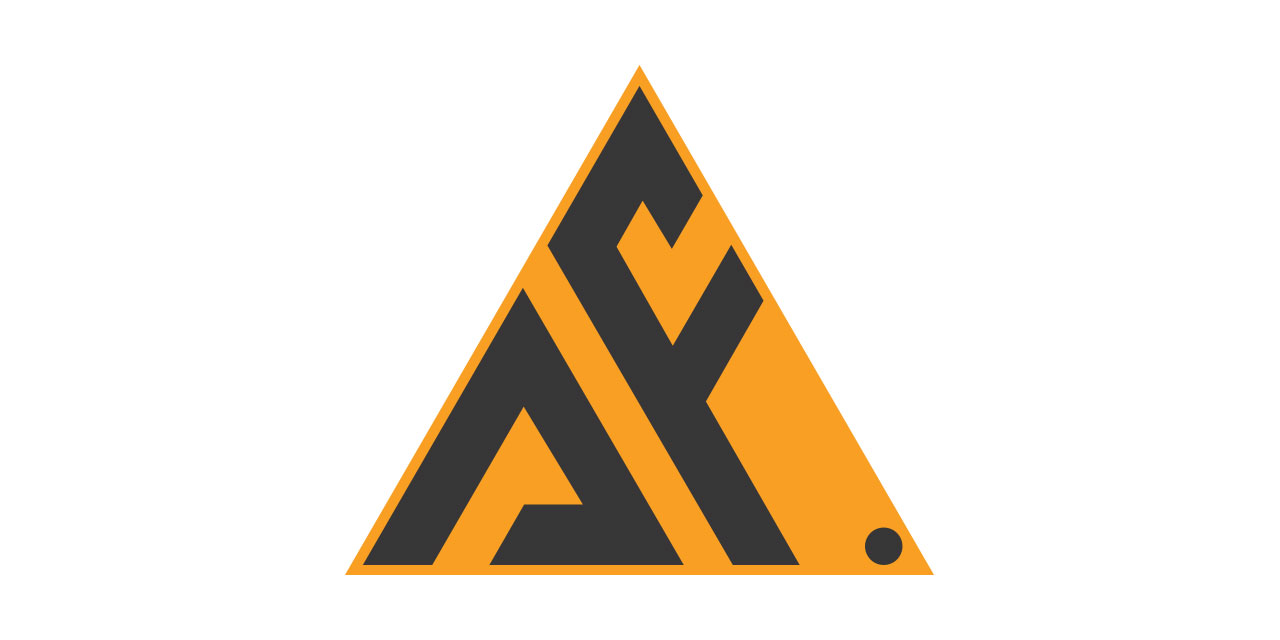
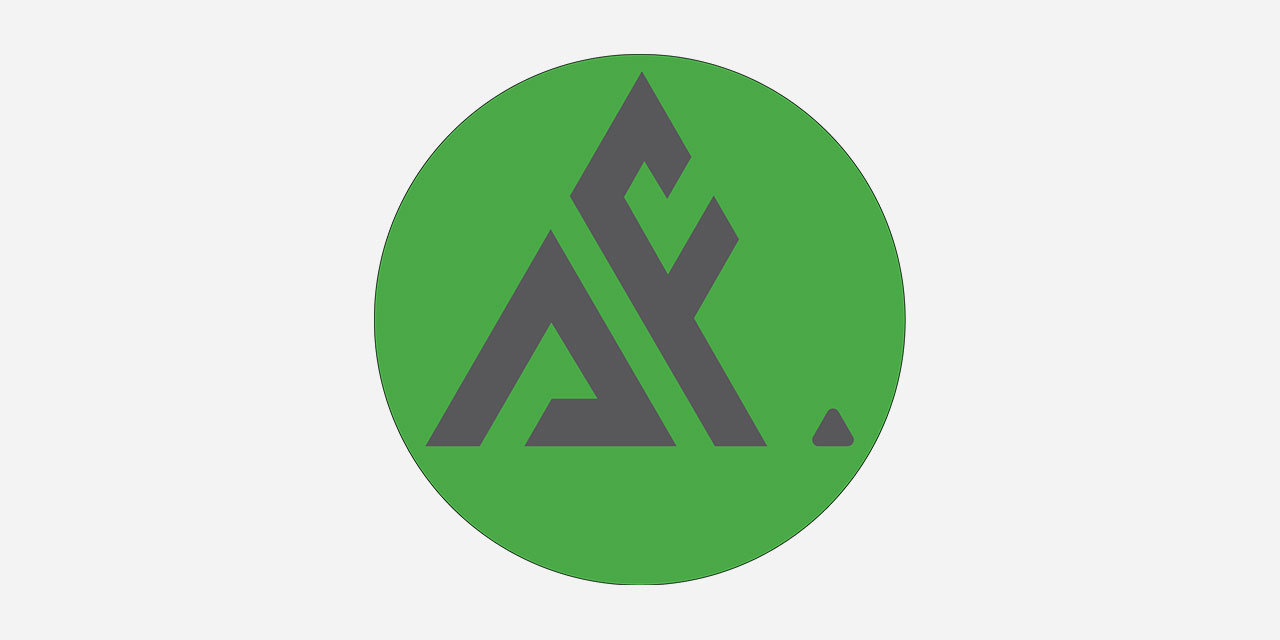
Final Updates
Favicon, OG image + cards on iOS

Changed region(s): [[0.25, 0.0625, 0.75, 0.9375]]

diff --git a/css/style.css b/css/style.css
@@ -1,1 +1,1 @@
-*{margin:0}body{line-height:1.5;-webkit-font-smoothing:antialiased}img,picture,video,canvas,svg{display:block;max-width:100%}input,button,textarea,select{font:inherit}p,h1,h2,h3,h4,h5,h6{overflow-wrap:break-word}a{text-decoration:none}ul{list-style-type:none;padding-inline-start:0}.my-work{padding-top:80px;padding-bottom:50px}.portfolio{position:relative}.filter{display:flex;padding-left:40px;height:30px}.category{font-family:"Roboto",sans-serif;font-weight:300;font-size:20px;cursor:pointer;transition:0.5s}.category:not(:first-child){margin-left:25px}.category:hover{color:#4AA71F}.category.active{color:#4AA71F}.category.active::after{content:"";display:block;width:7px;height:7px;margin:0 auto;border-radius:50%;background:#4AA71F}.portfolio{padding:0 40px;display:flex;align-items:center}.slider{position:relative;height:350px;display:flex;align-items:center;overflow-x:scroll;-ms-overflow-style:none;scrollbar-width:none}.slider::-webkit-scrollbar{display:none}.card,.card-inner{width:280px;height:280px}.card{margin-right:30px;background-color:transparent;border-radius:20px 20px 20px 0;perspective:1000px}.card:last-child{margin-right:0}.card.animate-in{animation:fadeInRight;animation-duration:0.5s}.card-inner{position:relative;text-align:center;transition:transform 0.8s;transform-style:preserve-3d}.card:hover .card-inner{transform:rotateY(180deg)}.card-front,.card-back{background-color:#C4C4C4;position:absolute;width:100%;height:100%;backface-visibility:hidden}.card-front{border-radius:20px 20px 20px 0;display:flex;justify-content:center;align-items:center}.card-front .logo{width:200px}.card-back{border-radius:20px 20px 0 20px;background-color:#C4C4C4;color:#444;transform:rotateY(180deg)}.card-back h3{font-family:"Roboto Slab",serif;font-size:25px;line-height:25px;font-weight:500;padding-top:15px}.card-back .group{display:flex;height:200px;align-items:center;justify-content:center}.card-back ul{width:100%;border:1px solid #4AA71F;border-radius:20px 20px 0 20px;margin:15px 20px;padding:10px;text-align:center;font-family:"Roboto",sans-serif;font-weight:300;font-size:20px;line-height:30px}.card-back .link{position:absolute;bottom:15px;width:280px}.card-back a,.card-back p{margin-left:auto;font-family:"Roboto",sans-serif;font-size:20px;font-weight:300;color:#444;transition:0.5s ease-in-out}.card-back a:hover,.card-back p:hover{text-decoration:underline;cursor:pointer}.dl-logo,.btns,.sbp,.flask,.folder,.untitled,.zztap,.orochi{display:none}.dl-logo .content,.btns .content,.sbp .content,.flask .content,.folder .content,.untitled .content,.zztap .content,.orochi .content{position:fixed;top:20%;left:50%;transform:translate(-50%);width:500px;height:500px;padding:20px;background-color:#fff;border-radius:30px 30px 30px 0;z-index:10}.dl-logo .content img,.btns .content img,.sbp .content img,.flask .content img,.folder .content img,.untitled .content img,.zztap .content img,.orochi .content img{max-height:100%;margin:auto}.dl-logo .content .close,.btns .content .close,.sbp .content .close,.flask .content .close,.folder .content .close,.untitled .content .close,.zztap .content .close,.orochi .content .close{position:absolute;top:-55px;right:-55px;color:#fff;font-size:50px}.dl-logo .content .close:hover,.btns .content .close:hover,.sbp .content .close:hover,.flask .content .close:hover,.folder .content .close:hover,.untitled .content .close:hover,.zztap .content .close:hover,.orochi .content .close:hover{cursor:pointer}.dl-logo::before,.btns::before,.sbp::before,.flask::before,.folder::before,.untitled::before,.zztap::before,.orochi::before{content:"";position:fixed;left:0;top:0;width:100vw;height:100vh;background-color:#444;opacity:0.8;z-index:5}.prev,.next{z-index:1;font-size:60px;position:absolute;transition:0.2s ease-in-out;color:#4AA71F}.prev:hover,.next:hover{cursor:pointer}.prev.inactive,.next.inactive{color:#C4C4C4;pointer-events:none;opacity:0.3}.prev{left:-20px}.next{right:-20px}.arrow{pointer-events:none}.swipe{opacity:0.6;display:flex;justify-content:flex-start;align-items:center}.swipe .arrow{color:#4AA71F;font-size:28px;margin-right:-15px}.swipe .text{margin-left:15px;font-size:22px;font-weight:300}.swipe.animate{animation:shakeX;animation-duration:2s}.portfolio-txt{padding-bottom:150px}@media (max-width: 1024px){.category{font-size:15px}.category:not(:first-child){margin-left:20px}.slider{height:300px}.card-back h3{font-size:22px}.card-back .group{height:180px}.card-back ul{padding:5px}.card-back .link{width:250px;bottom:5px}.card-back a{font-size:15px}.card,.card-inner{width:250px;height:250px}}@media (max-width: 850px){.my-work{padding-top:50px}.prev,.next{bottom:-80px}.prev{left:-18px}.next{left:60px}.portfolio,.filter{padding:0}.portfolio-txt{padding-top:50px}}@media screen and (max-width: 650px){.dl-logo .content,.btns .content,.sbp .content,.flask .content,.folder .content,.untitled .content,.zztap .content,.orochi .content{width:68vw;height:68vw}.dl-logo .content .close,.btns .content .close,.sbp .content .close,.flask .content .close,.folder .content .close,.untitled .content .close,.zztap .content .close,.orochi .content .close{top:-20px;right:-20px;font-size:30px}}@media screen and (max-width: 500px){.my-work{padding-bottom:0}.filter{display:grid;gap:10px;grid-template-columns:1fr 1fr;height:fit-content}.category{margin:auto;width:85%;padding:10px;text-align:center;border:1px solid #C4C4C4;border-radius:10px}.category:not(:first-child){margin:auto}.category.active{background-color:#4AA71F;border-color:#4AA71F;color:#C4C4C4}.category.active::after{display:none}.prev,.next{display:none}.portfolio-txt{text-align:justify;hyphens:auto}}@media (max-width: 350px){.filter{grid-template-columns:1fr;height:fit-content;width:100%}}.profile{padding:80px 0}.profile .img{filter:drop-shadow(-2px 2px 3px #4AA71F);float:left;max-width:45%;padding:0 20px 20px 0}.profile .photo{width:450px;border-radius:50px 50px 50px 0;clip-path:polygon(100% 0, 100% 100%, 20% 100%, 0 80%, 0 0);filter:grayscale(100%);-webkit-filter:grayscale(100%);transition:1s ease-in-out}.profile .photo:hover{filter:none;-webkit-filter:grayscale(0)}.icons{display:grid;grid-template-columns:1fr 1fr 1fr 1fr 1fr 1fr 1fr 1fr 1fr;margin-bottom:150px}.icon{display:block;font-size:65px;margin:auto;text-align:center;pointer-events:none}.ps{width:65px;height:65px;background-size:contain;background-image:url("../images/logos/Ps.svg")}.ps.dark{background-image:url("../images/logos/Ps-drk.svg")}.ai{width:65px;height:65px;background-size:contain;background-image:url("../images/logos/Ai.svg")}.ai.dark{background-image:url("../images/logos/Ai-drk.svg")}.tooltip{visibility:hidden;max-width:100px;padding:5px 0 15px 0;margin:auto;font-family:"Roboto",sans-serif;font-weight:300;font-size:20px;line-height:20px;text-align:center;animation:fadeInDown;animation-duration:1s}@media (max-width: 850px){.profile{padding-top:50px;padding-bottom:60px}.icons{grid-template-columns:1fr 1fr 1fr 1fr}.tooltip{font-size:16px;padding-bottom:10px}}@media (max-width: 450px){.profile .img{float:none;max-width:100%;display:flex;justify-content:center;padding:0 0 50px 0}.profile .txt{text-align:justify;hyphens:auto}.icons{grid-template-columns:1fr 1fr 1fr}}@media (max-width: 350px){.icons{grid-template-columns:1fr 1fr}}body{background-color:#f3f3f3;color:#444}body.dark{background-color:#444;color:#f3f3f3}html{scroll-behavior:smooth}.inner{max-width:1366px;padding:0 30px;overflow:hidden;position:relative;margin:0 auto}.section{padding-top:50px;box-sizing:border-box}.section.v-align{height:100vh;padding-top:0;display:flex;justify-items:center;align-items:center}.fs{height:100vh}nav{position:fixed;bottom:0;display:flex;width:100%;justify-content:center;animation:fadeInUp;animation-duration:2s;z-index:1}nav ul{background-color:#f3f3f3;opacity:90%;padding:15px;border-radius:15px 15px 0 0;display:flex;align-items:flex-end;font-family:"Roboto",sans-serif;font-weight:300}nav ul.dark{background-color:#444}nav a{color:#444;font-size:25px;transition:0.3s ease-in-out;padding:20px}nav a.dark{color:#f3f3f3}nav a.active,nav a:hover{font-family:"Roboto Slab",serif;color:#4AA71F;font-size:25px}.text{font-family:"Roboto",sans-serif;font-size:28px;font-weight:300}.text.lrg{font-size:55px;font-weight:100}.title{font-family:"Roboto Slab",serif;font-weight:400;font-size:60px;color:#4AA71F;line-height:55px}b{font-family:"Roboto Slab",serif;font-weight:400}.email{display:flex;justify-content:center;height:70%;align-items:center}.email .text{font-size:55px}.email .text:hover{animation:pulse;animation-duration:1s}.email a{color:#444}.email a.dark{color:#f3f3f3}.mobile{display:none}.toggle{transition:transform 250ms ease-in-out;pointer-events:none}.display{font-size:40px;transition:0.8s;position:fixed;padding:25px;top:0px;right:0px;z-index:2}.display:hover{cursor:pointer}.display:hover .toggle{transform:rotateY(180deg)}@media (max-width: 1024px){.section{padding-top:30px}.inner{padding:0 80px}nav a{font-size:17px;padding:15px}nav a:hover,nav a.active{font-size:19px}.title{font-size:50px;line-height:45px}.text{font-size:20px}.text.lrg{font-size:45px}.email .text{font-size:45px}.display{font-size:30px;padding:15px}}@media (max-width: 850px){.inner{padding:0 30px}.title{font-size:40px;line-height:35px}.text.lrg{font-size:35px}.email .text{font-size:35px}}@media (max-width: 450px){.text{font-size:18px}.title{font-size:30px;line-height:25px}.text.lrg{font-size:25px}.email{height:50%}.email .text{font-size:30px}.email .text b{font-size:40px}.default{display:none}.mobile{display:flex}}
+*{margin:0}body{line-height:1.5;-webkit-font-smoothing:antialiased}img,picture,video,canvas,svg{display:block;max-width:100%}input,button,textarea,select{font:inherit}p,h1,h2,h3,h4,h5,h6{overflow-wrap:break-word}a{text-decoration:none}ul{list-style-type:none;padding-inline-start:0}.my-work{padding-top:80px;padding-bottom:50px}.portfolio{position:relative}.filter{display:flex;padding-left:40px;height:30px}.category{font-family:"Roboto",sans-serif;font-weight:300;font-size:20px;cursor:pointer;transition:0.5s}.category:not(:first-child){margin-left:25px}.category:hover{color:#4AA71F}.category.active{color:#4AA71F}.category.active::after{content:"";display:block;width:7px;height:7px;margin:0 auto;border-radius:50%;background:#4AA71F}.portfolio{padding:0 40px;display:flex;align-items:center}.slider{position:relative;height:350px;display:flex;align-items:center;overflow-x:scroll;-ms-overflow-style:none;scrollbar-width:none}.slider::-webkit-scrollbar{display:none}.card,.card-inner{width:280px;height:280px}.card{margin-right:30px;background-color:transparent;border-radius:20px 20px 20px 0;perspective:1000px}.card:last-child{margin-right:0}.card.animate-in{animation:fadeInRight;animation-duration:0.5s}.card-inner{position:relative;text-align:center;transition:transform 0.8s;transform-style:preserve-3d}.card:hover .card-inner{transform:rotateY(180deg)}.card-front,.card-back{background-color:#C4C4C4;position:absolute;width:100%;height:100%;backface-visibility:hidden}.card-front{border-radius:20px 20px 20px 0;display:flex;justify-content:center;align-items:center}.card-front .logo{width:200px}.card-back{border-radius:20px 20px 0 20px;color:#333;transform:rotateY(180deg)}.card-back h3{font-family:"Roboto Slab",serif;font-size:25px;line-height:25px;font-weight:500;padding-top:15px}.card-back .group{display:flex;height:200px;align-items:center;justify-content:center}.card-back ul{width:100%;border:1px solid #4AA71F;border-radius:20px 20px 0 20px;margin:15px 20px;padding:10px;text-align:center;font-family:"Roboto",sans-serif;font-weight:300;font-size:20px;line-height:30px}.card-back .link{position:absolute;bottom:15px;width:280px}.card-back a,.card-back p{margin-left:auto;font-family:"Roboto",sans-serif;font-size:20px;font-weight:300;color:#333;transition:0.5s ease-in-out}.card-back a:hover,.card-back p:hover{text-decoration:underline;cursor:pointer}.dl-logo,.btns,.sbp,.flask,.folder,.untitled,.zztap,.orochi{display:none}.dl-logo .content,.btns .content,.sbp .content,.flask .content,.folder .content,.untitled .content,.zztap .content,.orochi .content{position:fixed;top:20%;left:50%;transform:translate(-50%);width:500px;height:500px;padding:20px;background-color:#fff;border-radius:30px 30px 30px 0;z-index:10}.dl-logo .content img,.btns .content img,.sbp .content img,.flask .content img,.folder .content img,.untitled .content img,.zztap .content img,.orochi .content img{max-height:100%;margin:auto}.dl-logo .content .close,.btns .content .close,.sbp .content .close,.flask .content .close,.folder .content .close,.untitled .content .close,.zztap .content .close,.orochi .content .close{position:absolute;top:-55px;right:-55px;color:#fff;font-size:50px}.dl-logo .content .close:hover,.btns .content .close:hover,.sbp .content .close:hover,.flask .content .close:hover,.folder .content .close:hover,.untitled .content .close:hover,.zztap .content .close:hover,.orochi .content .close:hover{cursor:pointer}.dl-logo::before,.btns::before,.sbp::before,.flask::before,.folder::before,.untitled::before,.zztap::before,.orochi::before{content:"";position:fixed;left:0;top:0;width:100vw;height:100vh;background-color:#333;opacity:0.8;z-index:5}.prev,.next{z-index:1;font-size:60px;position:absolute;transition:0.2s ease-in-out;color:#4AA71F}.prev:hover,.next:hover{cursor:pointer}.prev.inactive,.next.inactive{color:#C4C4C4;pointer-events:none;opacity:0.3}.prev{left:-20px}.next{right:-20px}.arrow{pointer-events:none}.swipe{opacity:0.6;display:flex;justify-content:flex-start;align-items:center}.swipe .arrow{color:#4AA71F;font-size:28px;margin-right:-15px}.swipe .text{margin-left:15px;font-size:22px;font-weight:300}.swipe.animate{animation:shakeX;animation-duration:2s}.portfolio-txt{padding-bottom:150px}@media (max-width: 1024px){.category{font-size:15px}.category:not(:first-child){margin-left:20px}.slider{height:300px}.card-back h3{font-size:22px}.card-back .group{height:180px}.card-back ul{padding:5px}.card-back .link{width:250px;bottom:5px}.card-back a{font-size:15px}.card,.card-inner{width:250px;height:250px}}@media (max-width: 850px){.my-work{padding-top:50px}.prev,.next{bottom:-80px}.prev{left:-18px}.next{left:60px}.portfolio,.filter{padding:0}.portfolio-txt{padding-top:50px}}@media screen and (max-width: 650px){.dl-logo .content,.btns .content,.sbp .content,.flask .content,.folder .content,.untitled .content,.zztap .content,.orochi .content{width:68vw;height:68vw}.dl-logo .content .close,.btns .content .close,.sbp .content .close,.flask .content .close,.folder .content .close,.untitled .content .close,.zztap .content .close,.orochi .content .close{top:-20px;right:-20px;font-size:30px}}@media screen and (max-width: 500px){.my-work{padding-bottom:0}.filter{display:grid;gap:10px;grid-template-columns:1fr 1fr;height:fit-content}.category{margin:auto;width:85%;padding:10px;text-align:center;border:1px solid #4AA71F;border-radius:10px}.category:not(:first-child){margin:auto}.category.active{background-color:#4AA71F;border-color:#4AA71F;color:#f3f3f3}.category.active::after{display:none}.prev,.next{display:none}.portfolio-txt{text-align:justify;hyphens:auto}}@media (max-width: 350px){.filter{grid-template-columns:1fr;height:fit-content;width:100%}}.profile{padding:80px 0}.profile .img{filter:drop-shadow(-2px 2px 3px #4AA71F);float:left;max-width:45%;padding:0 20px 20px 0}.profile .photo{width:450px;border-radius:50px 50px 50px 0;clip-path:polygon(100% 0, 100% 100%, 20% 100%, 0 80%, 0 0);filter:grayscale(100%);-webkit-filter:grayscale(100%);transition:1s ease-in-out}.profile .photo:hover{filter:none;-webkit-filter:grayscale(0)}.icons{display:grid;grid-template-columns:1fr 1fr 1fr 1fr 1fr 1fr 1fr 1fr 1fr;margin-bottom:150px}.icon{display:block;font-size:65px;margin:auto;text-align:center;pointer-events:none}.ps{width:65px;height:65px;background-size:contain;background-image:url("../images/logos/Ps.svg")}.ps.dark{background-image:url("../images/logos/Ps-drk.svg")}.ai{width:65px;height:65px;background-size:contain;background-image:url("../images/logos/Ai.svg")}.ai.dark{background-image:url("../images/logos/Ai-drk.svg")}.tooltip{visibility:hidden;max-width:100px;padding:5px 0 15px 0;margin:auto;font-family:"Roboto",sans-serif;font-weight:300;font-size:20px;line-height:20px;text-align:center;animation:fadeInDown;animation-duration:1s}@media (max-width: 850px){.profile{padding-top:50px;padding-bottom:60px}.icons{grid-template-columns:1fr 1fr 1fr 1fr}.tooltip{font-size:16px;padding-bottom:10px}}@media (max-width: 450px){.profile .img{float:none;max-width:100%;display:flex;justify-content:center;padding:0 0 50px 0}.profile .txt{text-align:justify;hyphens:auto}.icons{grid-template-columns:1fr 1fr 1fr}}@media (max-width: 350px){.icons{grid-template-columns:1fr 1fr}}body{background-color:#f3f3f3;color:#333}body.dark{background-color:#333;color:#f3f3f3}html{scroll-behavior:smooth}.inner{max-width:1366px;padding:0 30px;overflow:hidden;position:relative;margin:0 auto}.section{padding-top:50px;box-sizing:border-box}.section.v-align{height:100vh;padding-top:0;display:flex;justify-items:center;align-items:center}.fs{height:100vh}nav{position:fixed;bottom:0;display:flex;width:100%;justify-content:center;animation:fadeInUp;animation-duration:2s;z-index:1}nav ul{background-color:#f3f3f3;opacity:90%;padding:15px;border-radius:15px 15px 0 0;display:flex;align-items:flex-end;font-family:"Roboto",sans-serif;font-weight:300}nav ul.dark{background-color:#333}nav a{color:#333;font-size:25px;transition:0.3s ease-in-out;padding:20px}nav a.dark{color:#f3f3f3}nav a.active,nav a:hover{font-family:"Roboto Slab",serif;color:#4AA71F;font-size:25px}.text{font-family:"Roboto",sans-serif;font-size:28px;font-weight:300}.text.lrg{font-size:55px;font-weight:100}.title{font-family:"Roboto Slab",serif;font-weight:400;font-size:60px;color:#4AA71F;line-height:55px}b{font-family:"Roboto Slab",serif;font-weight:400}.email{display:flex;justify-content:center;height:70%;align-items:center}.email .text{font-size:55px}.email .text:hover{animation:pulse;animation-duration:1s}.email a{color:#333}.email a.dark{color:#f3f3f3}.mobile{display:none}.toggle{transition:transform 250ms ease-in-out;pointer-events:none}.display{font-size:40px;transition:0.8s;position:fixed;padding:25px;top:0px;right:0px;z-index:2}.display:hover{cursor:pointer}.display:hover .toggle{transform:rotateY(180deg)}@media (max-width: 1024px){.section{padding-top:30px}.inner{padding:0 80px}nav a{font-size:17px;padding:15px}nav a:hover,nav a.active{font-size:19px}.title{font-size:50px;line-height:45px}.text{font-size:20px}.text.lrg{font-size:45px}.email .text{font-size:45px}.display{font-size:30px;padding:15px}}@media (max-width: 850px){.inner{padding:0 30px}.title{font-size:40px;line-height:35px}.text.lrg{font-size:35px}.email .text{font-size:35px}}@media (max-width: 450px){.text{font-size:18px}.title{font-size:30px;line-height:25px}.text.lrg{font-size:25px}.email{height:50%}.email .text{font-size:30px}.email .text b{font-size:40px}.default{display:none}.mobile{display:flex}}

diff --git a/sass/_portfolio.scss b/sass/_portfolio.scss
@@ -103,6 +103,8 @@
   
 .card:hover .card-inner {
     -webkit-transform: rotateY(180deg);
+    -ms-transform: rotateY(180deg);
+    -moz-transform: rotateY(180deg);
     transform: rotateY(180deg);
 }
   
@@ -112,6 +114,8 @@
     width: 100%;
     height: 100%;
     -webkit-backface-visibility: hidden; /* Safari */
+    -moz-backface-visibility: hidden;
+    -ms-backface-visibility: hidden;
     backface-visibility: hidden;
 }
 
@@ -123,14 +127,15 @@
 
     .logo {
         width: 200px;
-        // height: 150px;
     }
 }
 
 .card-back {
     border-radius: 20px 20px 0 20px;
-    background-color: $background;
     color: $dark;
+    -webkit-transform: rotateY(180deg);
+    -ms-transform: rotateY(180deg);
+    -moz-transform: rotateY(180deg);
     transform: rotateY(180deg);
 
     h3 {
@@ -396,7 +401,7 @@
         width: 85%;
         padding: 10px;
         text-align: center;
-        border: 1px solid $background;
+        border: 1px solid $primary;
         border-radius: 10px;
 
         &:not(:first-child) {
@@ -406,7 +411,7 @@
         &.active {
             background-color: $primary;
             border-color: $primary;
-            color: $background;
+            color: $light;
             
             &::after {
                 display: none;

diff --git a/index.html b/index.html
@@ -9,7 +9,7 @@
         <link href="https://fonts.googleapis.com/css2?family=Roboto+Slab:wght@200;300;400;500;600;700&family=Roboto:wght@100;300;500;700&display=swap" rel="stylesheet">
         <link rel="stylesheet" href="css/style.css" />
         <link rel="stylesheet" href="https://cdnjs.cloudflare.com/ajax/libs/animate.css/4.1.1/animate.min.css" />
-        <link rel="icon" type="image/x-icon" href="/images/fav.png" />
+        <link rel="icon" type="image/x-icon" href="/images/favicon.png">
         <title>Portfolio | Arnold Farrugia</title>
         <meta property="og:title" content="Arnold Farrugia - Portfolio" />
         <meta property="og:image" content="https://raw.githubusercontent.com/arnoldfarrugia/arnoldfarrugia.github.io/main/images/af-og-image.jpg" />
@@ -477,7 +477,7 @@
                             <div class="untitled">
                                 <div class="content">
                                     <ion-icon class="close" name="close-circle-outline"></ion-icon>
-                                    <img src="/images/portfolio/logo.png" alt="Untitled Logo" />
+                                    <img src="/images/portfolio/Logo.png" alt="Untitled Logo" />
                                 </div>
                             </div>
 

diff --git a/sass/_variables.scss b/sass/_variables.scss
@@ -14,7 +14,7 @@ $xs-active: 20px;
 
 // ----- Colours -----
 $primary: #4AA71F;
-$dark: #444444;
+$dark: #333333;
 $light: #f3f3f3;
 $background: #C4C4C4;
 $white: #ffffff;
